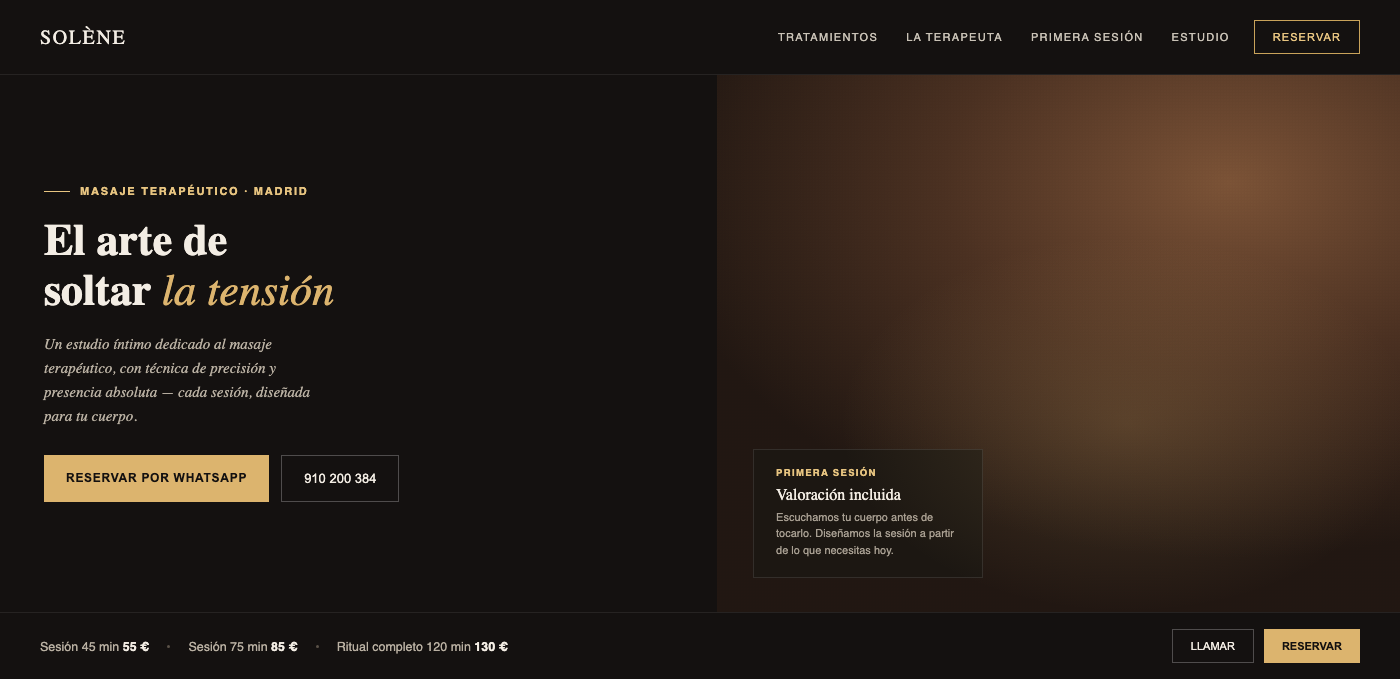
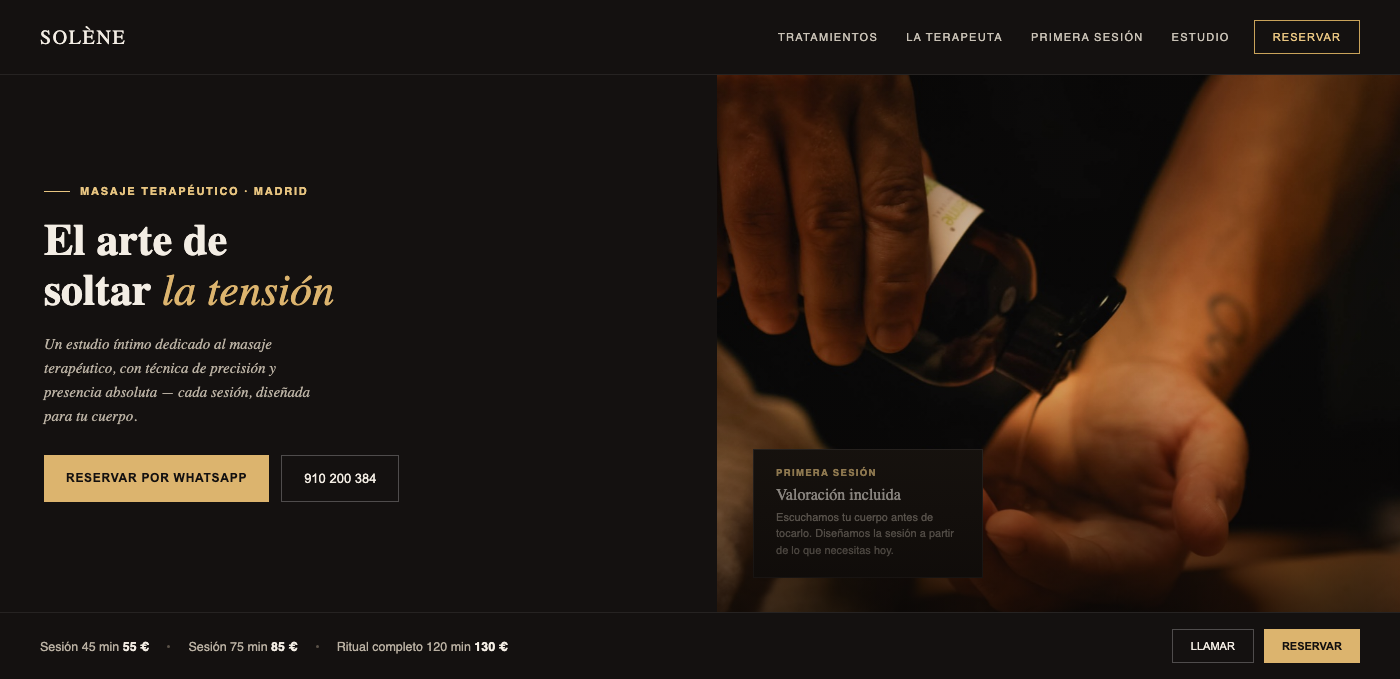
Usa foto real (aceite de masaje) en el mockup de "tu web" en vez del degradado abstracto
Foto adecuada para el contexto: manos sirviendo aceite de masaje, sin encuadre sensual. Aplicada como fondo con degradado oscuro para mantener legible el texto y la tarjeta superpuesta.

Changed region(s): [[0.4914, 0.0928, 1.0, 0.8969]]

diff --git a/mockups/solene-mockup.html b/mockups/solene-mockup.html
@@ -26,14 +26,10 @@
   .btn-gold{background:#dcb46e;color:#141110;border:none;font-size:12px;font-weight:600;letter-spacing:0.06em;padding:15px 22px;display:inline-flex;align-items:center;gap:8px}
   .btn-outline{background:transparent;border:1px solid rgba(255,255,255,0.25);color:#f3ede4;font-size:13px;font-weight:500;padding:15px 22px}
 
-  .hero-photo{position:relative;overflow:hidden;background:
-    radial-gradient(120% 100% at 75% 20%, #7a5236 0%, #4a3021 35%, #211712 70%),
-    linear-gradient(160deg,#3a281c,#161210)}
+  .hero-photo{position:relative;overflow:hidden;background:#1a1310
+    url('oil-photo-opt.jpg') center 38% / cover no-repeat;}
   .hero-photo::after{content:'';position:absolute;inset:0;
-    background:radial-gradient(60% 50% at 60% 65%, rgba(220,180,110,0.18), transparent 70%);}
-  .grain{position:absolute;inset:0;opacity:0.5;mix-blend-mode:overlay;
-    background-image:radial-gradient(circle at 20% 30%, rgba(255,255,255,0.05) 0, transparent 2px);
-    background-size:3px 3px;}
+    background:linear-gradient(0deg, rgba(10,7,6,0.75) 0%, rgba(10,7,6,0.15) 45%, rgba(10,7,6,0.35) 100%);}
 
   .session-card{position:absolute;left:36px;bottom:34px;background:#1c1712;border:1px solid rgba(255,255,255,0.1);
     padding:18px 22px;max-width:230px}
@@ -76,7 +72,6 @@
       </div>
     </div>
     <div class="hero-photo">
-      <div class="grain"></div>
       <div class="session-card">
         <div class="session-kicker">PRIMERA SESIÓN</div>
         <div class="session-title">Valoración incluida</div>

diff --git a/contacto.html b/contacto.html
@@ -25,7 +25,7 @@
 <link rel="preconnect" href="https://fonts.googleapis.com">
 <link rel="stylesheet" href="https://fonts.googleapis.com/css2?family=Inter:wght@300;400;500;600;700;800&family=Lexend:wght@200;300;400;500;600&display=swap">
 <link rel="stylesheet" href="https://unpkg.com/@phosphor-icons/web@2.1.1/src/light/style.css">
-<link rel="stylesheet" href="style.css?v=1788330804">
+<link rel="stylesheet" href="style.css?v=1788331467">
 <script type="application/ld+json">
 {
   "@context": "https://schema.org",
@@ -166,7 +166,7 @@
   </div>
 </footer>
 
-<script src="contacto.js?v=1788330804"></script>
-<script src="script.js?v=1788330804"></script>
+<script src="contacto.js?v=1788331467"></script>
+<script src="script.js?v=1788331467"></script>
 </body>
 </html>

diff --git a/precios.html b/precios.html
@@ -25,7 +25,7 @@
 <link rel="preconnect" href="https://fonts.googleapis.com">
 <link rel="stylesheet" href="https://fonts.googleapis.com/css2?family=Inter:wght@300;400;500;600;700;800&family=Lexend:wght@200;300;400;500;600&display=swap">
 <link rel="stylesheet" href="https://unpkg.com/@phosphor-icons/web@2.1.1/src/light/style.css">
-<link rel="stylesheet" href="style.css?v=1788330804">
+<link rel="stylesheet" href="style.css?v=1788331467">
 <script type="application/ld+json">
 {
   "@context": "https://schema.org",
@@ -477,7 +477,7 @@
   </div>
 </footer>
 
-<script src="contacto.js?v=1788330804"></script>
-<script src="script.js?v=1788330804"></script>
+<script src="contacto.js?v=1788331467"></script>
+<script src="script.js?v=1788331467"></script>
 </body>
 </html>

diff --git a/proyectos.html b/proyectos.html
@@ -25,7 +25,7 @@
 <link rel="preconnect" href="https://fonts.googleapis.com">
 <link rel="stylesheet" href="https://fonts.googleapis.com/css2?family=Inter:wght@300;400;500;600;700;800&family=Lexend:wght@200;300;400;500;600&display=swap">
 <link rel="stylesheet" href="https://unpkg.com/@phosphor-icons/web@2.1.1/src/light/style.css">
-<link rel="stylesheet" href="style.css?v=1788330804">
+<link rel="stylesheet" href="style.css?v=1788331467">
 <script type="application/ld+json">
 {
   "@context": "https://schema.org",
@@ -276,6 +276,6 @@
   <img src="" alt="" class="proj-lightbox-img">
 </div>
 
-<script src="script.js?v=1788330804"></script>
+<script src="script.js?v=1788331467"></script>
 </body>
 </html>

diff --git a/auditoria.html b/auditoria.html
@@ -25,7 +25,7 @@
 <link rel="preconnect" href="https://fonts.googleapis.com">
 <link rel="stylesheet" href="https://fonts.googleapis.com/css2?family=Inter:wght@300;400;500;600;700;800&family=Lexend:wght@200;300;400;500;600&display=swap">
 <link rel="stylesheet" href="https://unpkg.com/@phosphor-icons/web@2.1.1/src/light/style.css">
-<link rel="stylesheet" href="style.css?v=1788330804">
+<link rel="stylesheet" href="style.css?v=1788331467">
 <script type="application/ld+json">
 {
   "@context": "https://schema.org",
@@ -333,6 +333,6 @@
   </div>
 </footer>
 
-<script src="script.js?v=1788330804"></script>
+<script src="script.js?v=1788331467"></script>
 </body>
 </html>

diff --git a/index.html b/index.html
@@ -25,7 +25,7 @@
 <link rel="preconnect" href="https://fonts.googleapis.com">
 <link rel="stylesheet" href="https://fonts.googleapis.com/css2?family=Inter:wght@300;400;500;600;700;800&family=Lexend:wght@200;300;400;500;600&display=swap">
 <link rel="stylesheet" href="https://unpkg.com/@phosphor-icons/web@2.1.1/src/light/style.css">
-<link rel="stylesheet" href="style.css?v=1788330804">
+<link rel="stylesheet" href="style.css?v=1788331467">
 <script type="application/ld+json">
 {
   "@context": "https://schema.org",
@@ -314,6 +314,6 @@
   </div>
 </footer>
 
-<script src="script.js?v=1788330804"></script>
+<script src="script.js?v=1788331467"></script>
 </body>
 </html>

diff --git a/servicios.html b/servicios.html
@@ -25,7 +25,7 @@
 <link rel="preconnect" href="https://fonts.googleapis.com">
 <link rel="stylesheet" href="https://fonts.googleapis.com/css2?family=Inter:wght@300;400;500;600;700;800&family=Lexend:wght@200;300;400;500;600&display=swap">
 <link rel="stylesheet" href="https://unpkg.com/@phosphor-icons/web@2.1.1/src/light/style.css">
-<link rel="stylesheet" href="style.css?v=1788330804">
+<link rel="stylesheet" href="style.css?v=1788331467">
 <script type="application/ld+json">
 {
   "@context": "https://schema.org",
@@ -341,6 +341,6 @@
   </div>
 </footer>
 
-<script src="script.js?v=1788330804"></script>
+<script src="script.js?v=1788331467"></script>
 </body>
 </html>

diff --git a/aviso-legal.html b/aviso-legal.html
@@ -25,7 +25,7 @@
 <link rel="preconnect" href="https://fonts.googleapis.com">
 <link rel="stylesheet" href="https://fonts.googleapis.com/css2?family=Inter:wght@300;400;500;600;700;800&family=Lexend:wght@200;300;400;500;600&display=swap">
 <link rel="stylesheet" href="https://unpkg.com/@phosphor-icons/web@2.1.1/src/light/style.css">
-<link rel="stylesheet" href="style.css?v=1788330804">
+<link rel="stylesheet" href="style.css?v=1788331467">
 </head>
 <body>
 
@@ -116,6 +116,6 @@
   </div>
 </footer>
 
-<script src="script.js?v=1788330804"></script>
+<script src="script.js?v=1788331467"></script>
 </body>
 </html>

diff --git a/cookies.html b/cookies.html
@@ -25,7 +25,7 @@
 <link rel="preconnect" href="https://fonts.googleapis.com">
 <link rel="stylesheet" href="https://fonts.googleapis.com/css2?family=Inter:wght@300;400;500;600;700;800&family=Lexend:wght@200;300;400;500;600&display=swap">
 <link rel="stylesheet" href="https://unpkg.com/@phosphor-icons/web@2.1.1/src/light/style.css">
-<link rel="stylesheet" href="style.css?v=1788330804">
+<link rel="stylesheet" href="style.css?v=1788331467">
 </head>
 <body>
 
@@ -113,6 +113,6 @@
   </div>
 </footer>
 
-<script src="script.js?v=1788330804"></script>
+<script src="script.js?v=1788331467"></script>
 </body>
 </html>

diff --git a/privacidad.html b/privacidad.html
@@ -25,7 +25,7 @@
 <link rel="preconnect" href="https://fonts.googleapis.com">
 <link rel="stylesheet" href="https://fonts.googleapis.com/css2?family=Inter:wght@300;400;500;600;700;800&family=Lexend:wght@200;300;400;500;600&display=swap">
 <link rel="stylesheet" href="https://unpkg.com/@phosphor-icons/web@2.1.1/src/light/style.css">
-<link rel="stylesheet" href="style.css?v=1788330804">
+<link rel="stylesheet" href="style.css?v=1788331467">
 </head>
 <body>
 
@@ -123,6 +123,6 @@
   </div>
 </footer>
 
-<script src="script.js?v=1788330804"></script>
+<script src="script.js?v=1788331467"></script>
 </body>
 </html>
